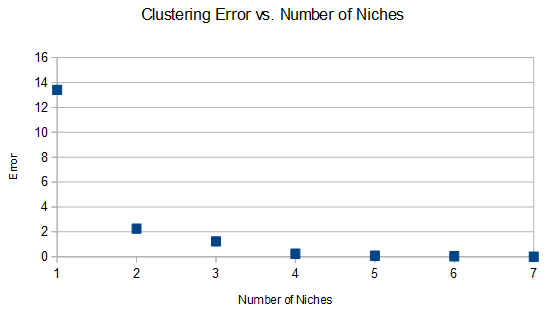
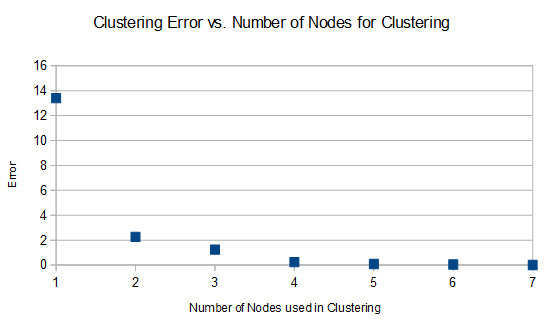
Final edits

diff --git a/Paper/kbrennan_gya_final_report.tex b/Paper/kbrennan_gya_final_report.tex
@@ -31,8 +31,8 @@ Gavriel Adler\\
 
 \maketitle
 \begin{abstract}
-In optimizing feature sets for classification, there are often multiple local optima when using tools such as genetic algorithms. In order to reduce complexity and computational cost, it is often desirable to deal with only a fixed number of solutions. One method for refining the solution set is niching through generalized crowding.\\
-\indent In this paper, we explore using a genetic algorithm for creating optimized feature sets for classification problems. Through several trials of a genetic algorithm, we create a solution space of locally optimal feature sets. Using generalized crowding with K-Means clustering, we refine the solution space into a set of niches. Based on the difference between a desired number of niches and the returned value, we implement a feedback controller for the exploration/exploitation of the genetic algorithm. By tuning this parameter, we adjust the range of the solution space through several trials till it converges to a desired number of niches. After testing on classifying newspaper titles, the algorithm did not show the controller to be effective in converging the solution space to a desired number of niches. Control over the exploration/exploitation parameter did not have sufficient power to augment the number of niches.
+In optimizing feature sets for classification, there are often multiple local optima. In order to reduce complexity and computational cost, it is often desirable to deal with only a fixed number of solutions. One method for controlling the size of the solution set is with generalized crowding.\\
+\indent In this paper, we explore using a genetic algorithm for creating optimized feature sets for classification problems. Through several trials of a genetic algorithm, we create a solution space of locally optimal feature sets. Using generalized crowding and K-Means clustering, we refine the solution space into a set of niches. Based on the difference between a desired number of niches and the number returned by the clustering algorithm, we implement a feedback controller for the exploration/exploitation of the genetic algorithm. By tuning this parameter, we adjust the range of the solution space through several iterations till it converges to the set point. After testing on classifying newspaper titles, the algorithm showed the controller to be ineffective in converging the solution space to a desired number of clusters. Control over the exploration/exploitation parameter did not have sufficient power to augment the number of niches for the given implementation.
 \end{abstract}
 
 \terms{Classification, Feedback, Stochastic Optimization}
@@ -40,17 +40,17 @@ In optimizing feature sets for classification, there are often multiple local op
 \keywords{Controlled Clustering, Naive Bayes, K-Means, Title Category Classification}
 
 \section{Introduction}
-The problem of optimizing feature sets for use in classification is often multi-modal. Often there are variable number of local optima each with unique characteristics. Although multiple solutions often give a better representation of the solution space for a given optimization, having a variable number of solutions can drastically increase the complexity and cost of a given algorithm.\\
-\indent One method for creating a fixed size solution set is through generalized crowding. Crowding groups solutions based on a given fitness function into a set of niches\cite{ole:feedback}. Using a scaling factor, generalized crowding controls the range of solutions  with respect to the given fitness function. In the case of evolutionary algorithms such as genetic algorithms, the scaling factor controls the exploration/exploitation parameter used in determining survival between generations. Control of the scaling factor therefore also controls the number of niches within a given solution space\cite{ole:feedback}.\\
-\indent In this paper, we detail using genetic algorithm to optimize feature sets for classifying newspaper titles into topics. For classification, each feature set is a set of bit-strings. Through several trials of a genetic algorithm, we create a set of locally optimized feature sets. With K-Means, we implement generalized crowding in order to cluster the solution set into a set of niches. We apply a feedback controller on the error between the desired number of niches and this returned number. In this paper, we consider the use a full PID controller in order to expand upon past research in this area. Using derivative and integral gains allows for greater control of the rate of convergence, overshoot, and steady state error when refining the number of  niches. Further information on the implementation of our algorithm is provided in the Methods section of our paper.  
+The problem of optimizing feature sets for use in classification is often multi-modal, with each local optima having its unique characteristics. Although multiple solutions often give a better representation of the solution space for a given optimization, having a variable number of solutions increases the complexity and cost of a given algorithm.\\
+\indent One method for creating a fixed-size solution set is through crowding. Crowding groups elements of the current generation of the genetic algorithm based on a given fitness functions\cite{ole:feedback}. Using a scaling factor, generalized crowding controls the range of solutions  with respect to the given fitness function. In the case of evolutionary algorithms such as genetic algorithms, the scaling factor controls the exploration/exploitation parameter used in determining survival between generations. Control of the scaling factor therefore also controls the number of niches within a given solution space\cite{ole:feedback}.\\
+\indent In this paper, we detail using genetic algorithm to optimize feature sets for classifying newspaper titles into topics. For classification, each feature set is a set of words. Through several trials of a genetic algorithm, we create a set of locally optimized feature sets. With each generation of the genetic algorithm, we use generalized crowding in order to control the solution set. The solution set is then clustered with K-Means. We apply a feedback controller on the error between the desired number of clusters and this returned number. In this paper, we consider the use a full PID controller in order to expand upon past research in this area. Using derivative and integral gains allows for greater control of the rate of convergence, overshoot, and steady state error when refining the number of  niches. Further information on the implementation of our algorithm is provided in the Algorithm section of our paper.  
 
 \section{Background}
 \subsection{Feature Selection}
-\cite{feature:feedback}
+In classification by feature set, the computation time and cost are directly linked to the number of features used. Each additional features increases the number of comparisons and therefore time to classification\cite{features}. The goal of feature selection is to minimize the number of features used while maintaining a certain degree of classification accuracy. In optimizing feature sets, it is possible to both change the size of the set and the combinations of features used. Since the problem is parameterized by multiple elements, the solution is often multi-modal. In addition, each parameter can be optimized with respect to the change in classification accuracy or the change in computation time.\\
+\indent One method for handling this multi-modal problem is to use genetic algorithms\cite{features}. Genetic algorithms have the ability to explore multiple local optima, while also requiring minimal a priori knowledge. Genetic algorithms work by having several nodes, feature sets, compete for survival between generations of the algorithm. The survival of a given node is based on a fitness function. In addition to the fitness function, there are random mutations and cross-over in the nodes. The rate at which these events occur are based on parameterized probabilities. These event prevent premature convergence in the search for local optima and extend the range of the solution space\cite{galan:feedback}. One implementation for feature selection first converts each feature set to a bit-string\cite{features}. Each one in the bit-string indicates that a given feature from the overall feature is used by the current feature set. Based on this relationship, one can then calculate a similarity index between two feature sets based the features used in both. The fitness function for this given implementation is based on the classification scores for each feature set. The nodes which survive between generations are then generally the ones with the higher classification scores.
 
-\subsection{Generalized Crowding}
-
-\subsection{Feedback Controller}
+\subsection{Generalized Crowding for Genetic Algorithms}
+Crowding is a method of determining survival in a genetic algorithm based on a selective pressure. The selective pressure determines the survivor for each competition between child and parent\cite{galan:feedback}. Generalized Crowding expands upon Crowding by parameterizing the selective pressure\cite{galan:feedback}. This parameterization is known as the scaling factor or $\phi$ term. It controls the degree to which the algorithm values exploration over exploitation in the survival stages between generations\cite{galan:feedback}. Controlling this factor extends the range of the solution space because it allows for non-optimal survivors between generations. This method decreases the likelihood of the nodes converging to a single local optima, and thereby explores more of the possible solutions.
 
 \section{Algorithm}
 \begin{figure*}[t]
@@ -71,17 +71,17 @@ Our pipeline, as seen in Figure~\ref{fig:pipeline}, consists of a few independen
 \caption{The flow of one iteration of the genetic algorithm}
 \label{fig:genetic_algo}
 \end{figure}
-Our genetic algorithm operated on a set of bags of words, and converged to a single locally optimal bag of words. At each round of the genetic algorithm, the Naive Bayes score on the testing set was calculated for each bag of words. The lowest two scores competed for survival, and the victor was based on both the $\phi$ exploration/exploitation term and a random coin flip. After one bag was killed, each remaining bag was mutated and additional randomized cross-over between trials was added in to further diversity. Our solution set was created by running several trials of the genetic algorithm on many randomly generated sets of bags of words.\\
+Our genetic algorithm operated on a set of bags of words, and converges to a single locally optimal bag of words. At each round of the genetic algorithm, the Naive Bayes score on the testing set was calculated for each bag of words. The lowest two scores competed for survival, and the victor was based on both the $\phi$ exploration/exploitation term and a random coin flip. After one bag was killed, each remaining bag was mutated and additional randomized cross-over between trials was added in to further diversity. Our solution set was created by running several trials of the genetic algorithm on many randomly generated sets of bags of words.\\
 \indent In the mutation step, the algorithm attempted to replace each word in the bag of words with a new word taken from the titles in the training set. If the Naive Bayes score of the bag of words with the new word was higher than it was with the old word, the new word replaced the old word, otherwise the new word was discarded.\\
 \indent This process of testing with Naive Bayes continues till only a single bag of words is left. We add this bag of words to our solution set, and after all the trials of the genetic algorithm are finished we have a set locally optimal solutions. This solution set is then passed onto the clustering algorithm.
 
 \subsection{Clustering Algorithm}
-Our clustering algorithm is based on the Objective K-Means function. The objective function works by running K-Means with a variable number of nodes used for clustering. For each element of the solution set created by the genetic algorithm trials, we calculate the number of true positives, false positives, true negatives, and false negative. A true positive or true negative represents the correct classification of a title, and conversely a false positive or false negative represents a failure to do so. This representation is possible because we are separating the titles into only two classes. We used these statistics, instead of other distance metrics such as the Hamming distance as used in previous research\cite{ole:feedback}, in order to cluster the solutions by characteristics. For instance, to have on group of solutions with minimal false positive or another with minimal false negatives.\\
+Our clustering algorithm is based on the Objective K-Means function. The objective function works by running K-Means with a variable number of nodes used for clustering. For each element of the solution set created by the genetic algorithm trials, we calculate the number of true positives, false positives, true negatives, and false negative. A true positive or true negative represents the correct classification of a title, and conversely a false positive or false negative represents a failure to do so. This representation is possible because we are separating the titles into only two classes. We used these statistics, instead of other distance metrics such as the Hamming distance as used in previous research\cite{ole:feedback}, in order to cluster the solutions by characteristics. For instance, to have a group of solutions with minimal false positives or another with minimal false negatives.\\
 \indent Based on these statistics, we calculate a distance to each node based on the Euclidean distance metric. For K-Means, we group each element to the closest node, and re-calculate a mean node for each grouping. K-Means continues to iterate until the mean nodes remain constant between iterations. Once K-Means finishes iterating, we calculate the distance of each element to its group's mean node. The sum of these distances is our error for that given number of nodes.\\
-\indent Based on the error for each number of nodes, we find the change in the error with respect to the change in the number of nodes. This change is the first derivative for our error. Next, we find the change in the first derivative with respect to the change in the number of nodes. This change is the second derivative for our error. Based on the maximum second derivative, we calculate the elbow point for the error versus number of nodes. For our feedback loop, the elbow point returned by our clustering algorithm represents the optimal number of nodes, or local optima, to use.
+\indent Based on the error for each number of nodes, we find the change in the error with respect to the change in the number of nodes. This change is the first derivative of the error. Next, we find the change in the first derivative with respect to the change in the number of nodes. This change is the second derivative of the error. The elbow point for the errors is then calculated by the maximum second derivative. For our feedback loop, the elbow point returned by our clustering algorithm represents the optimal number of nodes, or local optima, to use.
 
 \subsection{Feedback Controller}
-For controlling $\phi$ for the genetic algorithm, we use a PID controller. The set point for the controller is the desired number of clusters after crowding. The error is the difference between the set point and the returned number of clusters from the clustering algorithm. Based on this error, we calculate the change in the exploration/exploitation term for the next iteration of the feedback loop. The change is determined by calculating the change in error between iterations of the feedback loop, which is our derivative term, and the sum of all past errors, which is our integral term. By multiplying these terms and the error by set gains, we calculate the new exploration/exploitation term. The goal of implementing a full PID controller is to improve upon the efficiency of the entire pipeline by reducing the number of iterations till convergence to the desired number of clusters. The derivative term should improve the responsiveness of the controller while the integral term should ensure that the limit of the error goes to zero in time.
+For controlling $\phi$ for the genetic algorithm, we use a PID controller. The set point for the controller is the desired number of clusters. The error is the difference between the set point and the returned number of clusters from the clustering algorithm. Based on this error, we calculate the change in the exploration/exploitation term for the next iteration of the feedback loop. The change is determined by calculating the change in error between iterations of the feedback loop, which is our derivative term, and the sum of all past errors, which is our integral term. By multiplying these terms and the error by set gains, we calculate the new exploration/exploitation term. The goal of implementing a full PID controller is to improve upon the efficiency of the entire pipeline by reducing the number of iterations till convergence to the desired number of clusters. The derivative term should improve the responsiveness of the controller while the integral term should ensure that the limit of the error goes to zero in time.
 
 \subsection{Implementation}
 We implemented our pipeline using Python's PANDAS module. Python, a scripting language, is easy to work with and develop quickly which was important given the project had to be finished within a semester. PANDAS is built on top of Python's NumPy library, which is strictly typed and invokes C calls, significantly speeding up the slow execution of Python. Lastly, we implemented clustering using Python's scikit-learn library, a machine learning library. Scikit-learn is also built in NumPy, making passing data between the two libraries very simple. In the end we were able to run our pipeline very efficiently, with each iteration of the feedback loop taking on the order of seconds instead of minutes. This speed allowed us to try many different runs of various combinations of parameters and analyze the results.
@@ -99,7 +99,7 @@ In testing, we experimented with different controller gains, number of features 
 \caption{A sample of the clustering error versus number of niches created by the clustering algorithm.}
 \label{fig:graph1}
 \end{figure}
-A sample representation of the objective clustering algorithm is shown in Figure 3. The graph shows the clustering error, or the sum of the Euclidean distances of each element of the solution set to its respective node. Based on this error, we calculate the first and second derivatives of the error with respect to number of niches used for clustering. Our algorithm determines the optimal number of niches to be the point with the maximum second derivative. The result of the iteration displayed in this graph is two niches for clustering. This graph is representative of the majority of the trials of our entire algorithm. Even through varying the $\phi$ term and the number of words per set, overall the number of niches remains at 2. This result is shown in Figure 4.
+A sample representation of the objective clustering algorithm is shown in Figure 3. The graph shows how well the solution set clustered given a certain number of nodes for clustering. Based on this error, we calculate the first and second derivatives of the error with respect to number of niches used for clustering. Our algorithm determines the optimal number of niches to be the point with the maximum second derivative. The result of the iteration displayed in this graph is two niches for clustering. This graph is representative of the majority of the trials of our entire algorithm. Even through varying the $\phi$ term and the number of words per set, overall the number of niches remains at 2. This result is shown in Figure 4.
 \begin{figure}[t]
 \centering
 \fbox{\rule{0pt}{2in}
@@ -137,17 +137,17 @@ Figure 4 shows the output of the control loop after each generation for several 
 
 
 The results shows that the classification accuracy is invariant of the controller. Coupled with the results in Figure 4, this graph also shows that the $\phi$ term does not have a significant impact on the convergence in the number of niches. Figure 6 show $\phi$ term has a constant increase. This consistency is due to the fact that the error from each iteration controls the change in $\phi$ for the next iteration. Since the error is consistent, the change in $\phi$ is consistent.\\
-\indent Based on all the results shown above, we conclude that the controller had minimal impact on the genetic algorithm. The unchanging results of the clustering algorithm show that, while our results do not show convergence, we cannot conclude that the controller does not have an impact on the efficiency of the algorithm. The results suggest that further experimentation with additional optimization algorithms is need to fully test the possibilities of a feedback controller. In addition, the results shows that with given fitness function for clustering, we may not be guaranteed to converge to desired number of clusters or optimal solutions. 
+\indent Based on all the results shown above, we conclude that the controller had minimal impact on the genetic algorithm. Although the number of clusters did not converge, we cannot conclude that the controller does not have an impact on the efficiency of the algorithm. Instead, the results suggest that further experimentation with additional optimization algorithms is needed to fully test the possibilities of a feedback controller. In addition, the results show that with a given fitness function, we may not be guaranteed to converge to desired number of clusters or optimal solutions. 
 
 \section{Conclusion and Future Work}
 This paper details the use of genetic algorithm, clustering, and feedback control in order to fixed-size optimized feature sets for classification. A PID controller adjusts the parameters of the genetic algorithm in order to control the range of the solution space. Clustering groups the solution space into a set of niches. This set of niches determines the error for the control loop in the next iteration of the feedback loop. This paper explores the use of derivative and integral terms in order to increase the responsiveness of the controller. In addition, it explore the use of different distance metrics used for clustering in order to investigate the characteristics of each of the solution space's niches. Although the results did not yield great success in controlling the solution space, the work detailed leaves several areas for further investigation and experimentation.\\
-\indent For future work, we would experiment with other distance metrics for clustering. As mentioned in the results section, the classification results proved to be similar to create substantial differences in clustering. This similarity caused the solution set to sometimes converge to a single cluster, which impede the feedback controller.\\
-\indent Another area for future work would be the creation of classification rules in the genetic algorithm. In our current algorithm, we relies solely on Naive Bayes as the classifier for a given feature. By expanding upon Naive Bayes, we could implement a decision tree based on the Naive Bayes results for each element of a given feature set. This expansion should improve the classification scores of the feature set as it considers combinations of words in a title rather just each word by itself.
+\indent For future work, we would experiment with other distance metrics for clustering. As mentioned in the results section, the classification results proved to be similar to create substantial differences in clustering. This similarity caused the solution set to sometimes converge to a single cluster, which impede the feedback controller. One potential alternative would be to represent the feature set as a bit-string and use the Hamming distance as a similarity index\cite{features}\\
+\indent Another area for future work would be the creation of classification rules in the genetic algorithm. In our current algorithm, we rely solely on Naive Bayes as the classifier for a given feature. We could expand upon our implementation by using decision trees based on the Naive Bayes results for each element of a given feature set. This expansion could improve the classification scores of the feature set as it considers combinations of words in a title rather just each word by itself.
 
 \begin{thebibliography}{100}
 	
 	\bibitem{ole:feedback} Shi, J., Mengshoel, O.J., and Pal,D.K., "Feedback Control for Multi-modal Optimization using Genetic Algorithms," \emph{Carnegie Mellon University}.
-	\bibitem{feature:feedback} Vafaie, H. and Jong, K.D., "Genetic Algorithms as a Tool for Feature Selection in Machine Learning," \emph{Center for Artificial Intelligence, George Mason University}.
+	\bibitem{features} Vafaie, H. and Jong, K.D., "Genetic Algorithms as a Tool for Feature Selection in Machine Learning," \emph{Center for Artificial Intelligence, George Mason University}.
 	\bibitem{galan:feedback} Galan, S.F., and Mengshoel, O.J, "Generalized Crowding for Genetic Algorithms," \emph{Carnegie Mellon University}.
 	\bibitem{boydstun}The University of Texas at Austin. (2006). "Boydstun NYT Front Page Dataset". <http://www.policyagendas.org/document/boydstun-nyt-front-page-dataset>
 	
